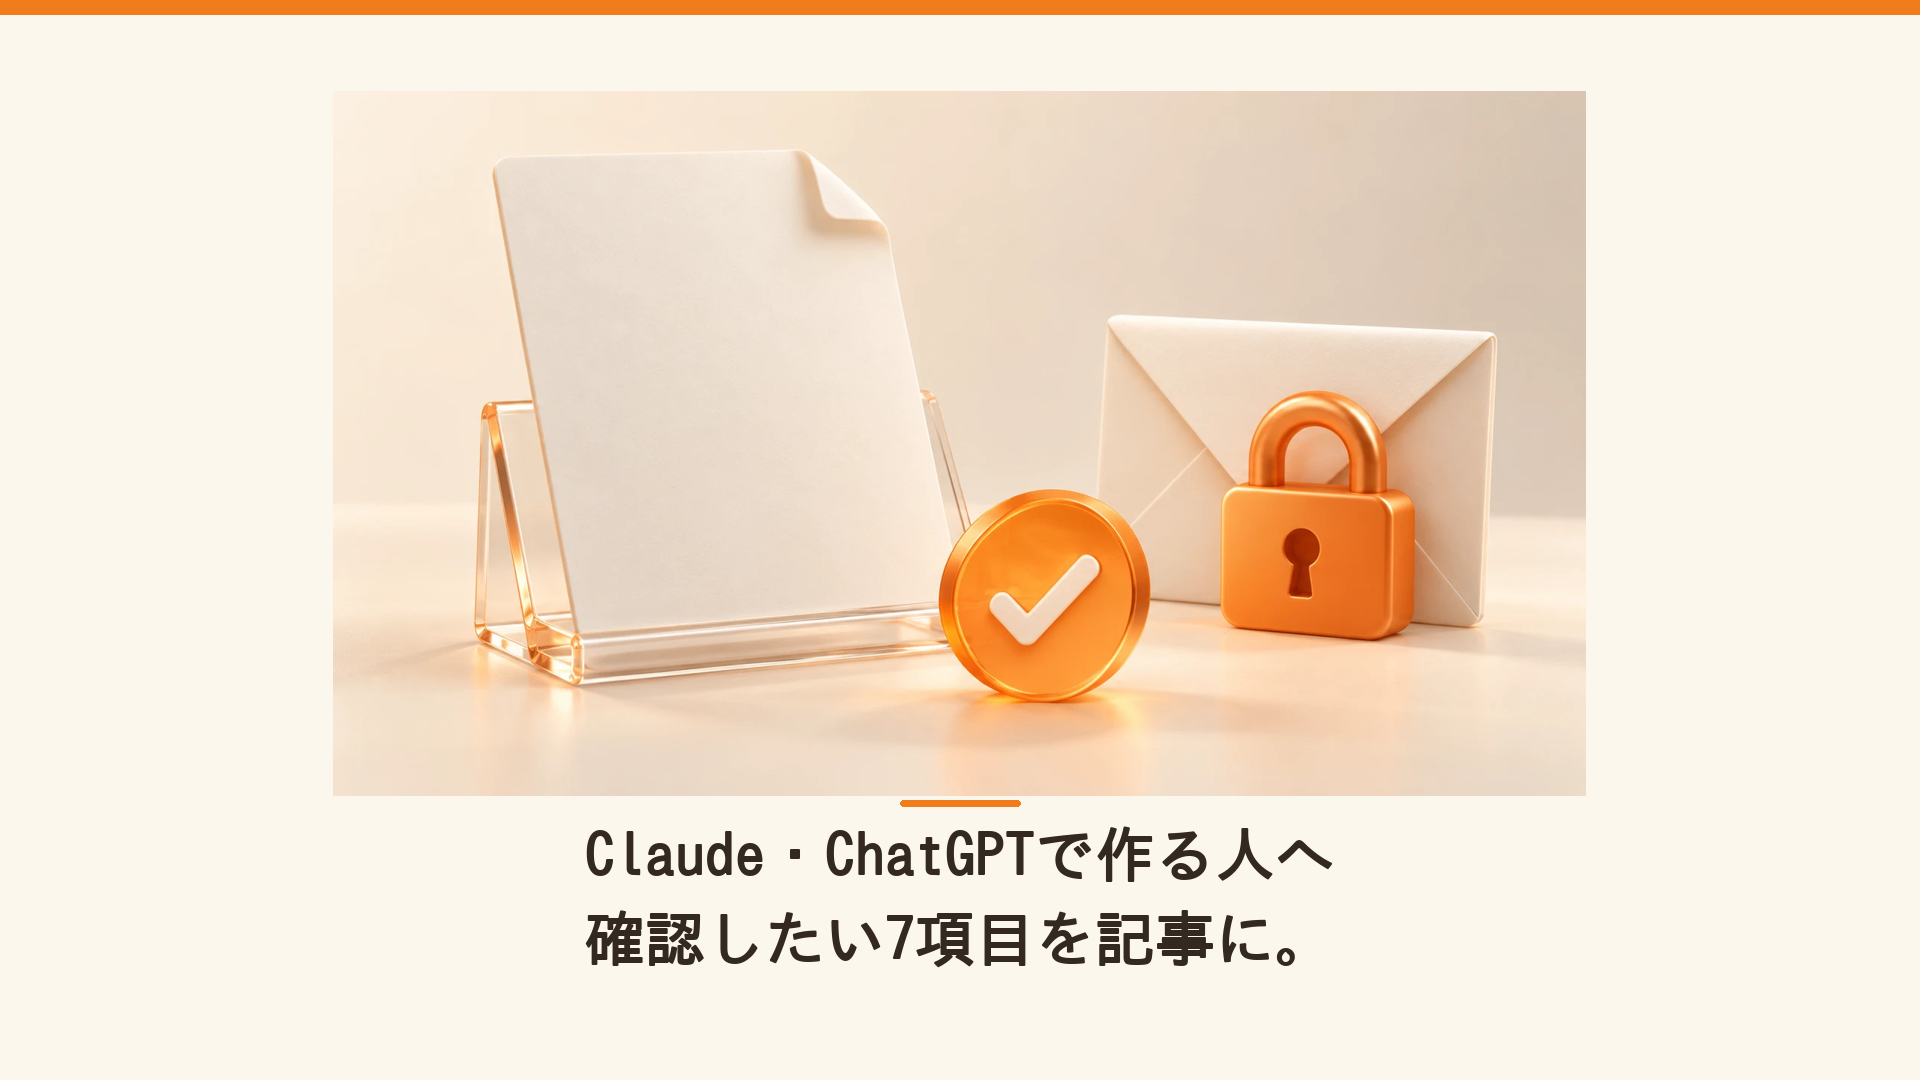
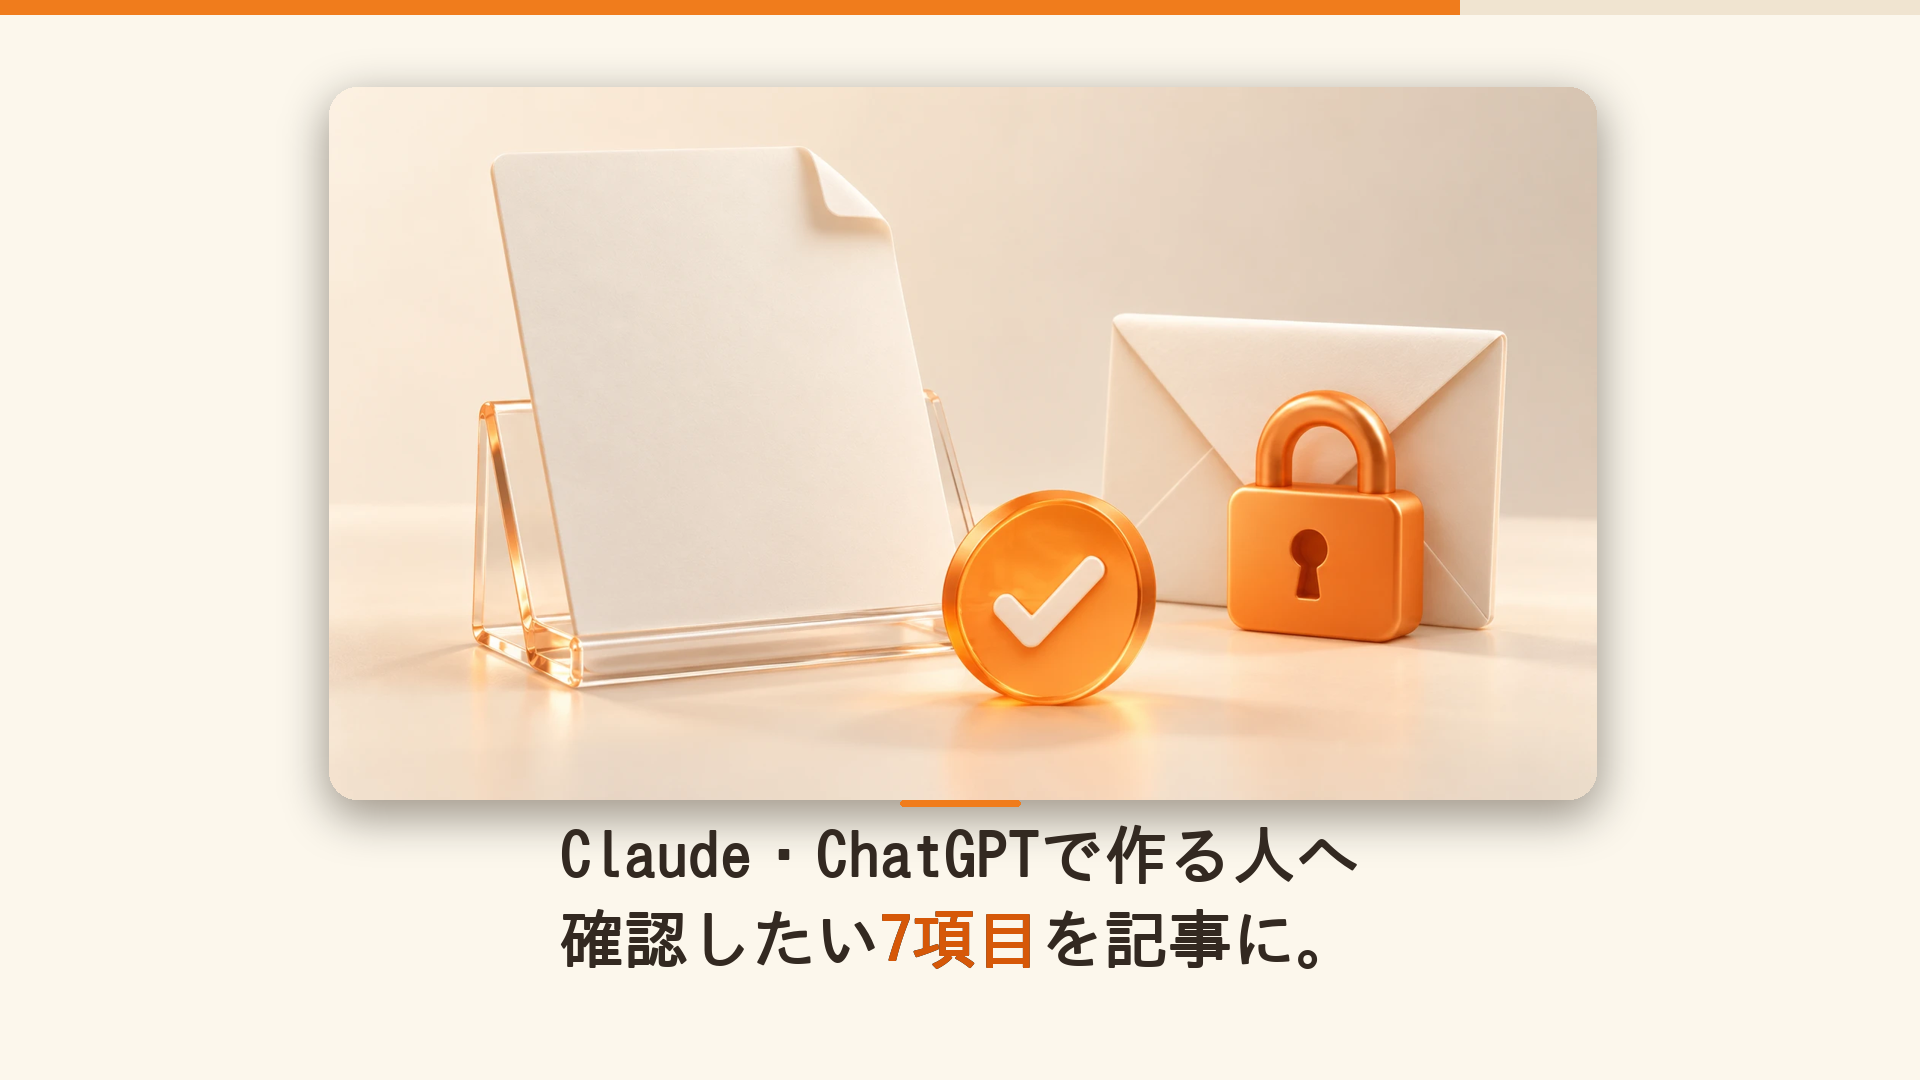
feat: 動画の見た目を改善(冒頭アイコンを拡大、キーワード強調、角丸+影、進行バー)
Claude-Session: https://claude.ai/code/session_01BTRd6nyQ5FvojqfiBRcFFR

diff --git a/video/src/render.py b/video/src/render.py
@@ -21,7 +21,7 @@ FONT_PATHS = [  # 日本語フォント(先頭から探索)
     "/usr/share/fonts/opentype/ipafont-gothic/ipag.ttf",
     "/usr/share/fonts/truetype/fonts-japanese-gothic.ttf",
 ]
-SUB_PX = 60                              # 字幕サイズ(52〜64px)
+SUB_PX = 64                              # 字幕サイズ(52〜64px)
 LINE_H = 84
 SUB_TOP = H - MY - LINE_H * 2            # 字幕ゾーン上端 = 812
 IMG_BOX = (MX, MY, W - MX, SUB_TOP - 24) # 画像表示領域 (120,100)-(1800,788)
@@ -37,6 +37,10 @@ SCENES = [
     (23, 29, ["body1", "body2", "body3"], ["Claude・ChatGPTで作る人へ", "確認したい7項目を記事に。"]),
     (29, 35, ["banner"], ["実務への導入で迷っている方は", "COACH AIへご相談ください"]),
 ]
+HIGHLIGHT = [  # シーン別の強調語(字幕に含まれる部分文字列)
+    ["仕事で使って大丈夫"], ["社内データ"], ["誰が見られる", "どこまで操作"], ["止め方"], ["7項目"], ["COACH AI"],
+]
+ACCENT = (214, 88, 8)  # アイボリー上で読めるオレンジ
 FILES = {"cover": "cover.png", "body1": "body1.png", "body2": "body2.png",
          "body3": "body3.png", "banner": "coach_ai_banner.png"}
 PH_SIZE = {"cover": (2000, 800), "body1": (1600, 900), "body2": (1600, 900),
@@ -107,7 +111,7 @@ def alert_bg():
     return _ALERT[0]
 
 
-def draw_subtitle(canvas, lines, alpha, f, color=INK):
+def draw_subtitle(canvas, lines, alpha, f, color=INK, hl=(), accent=ACCENT):
     if alpha <= 0:
         return
     layer = Image.new("RGBA", canvas.size, (0, 0, 0, 0))
@@ -118,8 +122,13 @@ def draw_subtitle(canvas, lines, alpha, f, color=INK):
         tw = d.textlength(ln, font=f)
         assert tw <= W - 2 * MX - 24, f"字幕が長すぎます: {ln} ({tw}px)"
         cy = y0 + i * LINE_H + LINE_H // 2
-        d.text((W // 2, cy), ln, font=f, fill=color + (a,), anchor="mm", stroke_width=1, stroke_fill=color + (a,))
-    # オレンジのアクセントライン(字幕ゾーン上)
+        left = W / 2 - tw / 2
+        d.text((left, cy), ln, font=f, fill=color + (a,), anchor="lm", stroke_width=1, stroke_fill=color + (a,))
+        for h in hl:  # 強調語を上書き
+            k = ln.find(h)
+            if k >= 0:
+                x = left + d.textlength(ln[:k], font=f)
+                d.text((x, cy), h, font=f, fill=accent + (a,), anchor="lm", stroke_width=1, stroke_fill=accent + (a,))
     d.rounded_rectangle([W // 2 - 60, SUB_TOP - 12, W // 2 + 60, SUB_TOP - 6], 3, fill=ORANGE + (a,))
     canvas.alpha_composite(layer)
 
@@ -139,9 +148,9 @@ def frame(n, imgs, f):
         bgl = alert_bg().copy()
         bgl.putalpha(int(255 * fo))
         canvas.alpha_composite(bgl)
-    else:
-        ImageDraw.Draw(canvas).rectangle([0, 0, W, 14], fill=ORANGE)
-    zoom = 1.0 + 0.04 * (local / dur)  # 軽いズーム 100%→104%
+
+    zoom = 1.0 + 0.06 * (local / dur)  # 軽いズーム 100%→106%
+    drift = round((local / dur - 0.5) * 28 * (1 if si % 2 == 0 else -1))  # わずかな横移動(px)
 
     if len(keys) == 1:
         weights = [(keys[0], 1.0)]
@@ -162,7 +171,12 @@ def frame(n, imgs, f):
     for k, a in weights:
         if a <= 0:
             continue
-        im = fit(imgs[k], zoom * (0.62 if opening else 1.0)).convert("RGBA")
+        src = imgs[k]
+        if opening and k == "cover":  # 余白の多い表紙を、5:2のまま中央の鍵アイコン周辺に寄せる
+            cw = 880
+            cx0, cy0 = src.width // 2 - cw // 2, 380 - int(cw * 0.4) // 2
+            src = src.crop((cx0, cy0, cx0 + cw, cy0 + int(cw * 0.4)))
+        im = fit(src, zoom * (0.74 if opening else 1.0)).convert("RGBA")
         if opening:  # 小さめのカード+背後の赤橙の光で、暗い背景に浮かせる
             gl = Image.new("RGBA", (W, H), (0, 0, 0, 0))
             cx, cy = (bx0 + bx1) // 2, (by0 + by1) // 2 + 40
@@ -170,9 +184,21 @@ def frame(n, imgs, f):
                                                   cx + im.width // 2 + 30, cy + im.height // 2 + 30], 30,
                                                  fill=RED_GLOW + (int(150 * a * alpha),))
             canvas.alpha_composite(gl.filter(ImageFilter.GaussianBlur(40)))
-        im.putalpha(int(255 * a * alpha))
-        # 影は付けず、中央配置
-        canvas.alpha_composite(im, ((bx0 + bx1 - im.width) // 2, (by0 + by1 - im.height) // 2 + (40 if opening else 0)))
+        rm = Image.new("L", im.size, 0)
+        ImageDraw.Draw(rm).rounded_rectangle([0, 0, im.width - 1, im.height - 1], 28, fill=int(255 * a * alpha))
+        im.putalpha(rm)
+        px = (bx0 + bx1 - im.width) // 2 + drift
+        py = (by0 + by1 - im.height) // 2 + (40 if opening else 0)
+        sh = Image.new("RGBA", (W, H), (0, 0, 0, 0))
+        ImageDraw.Draw(sh).rounded_rectangle([px, py + 14, px + im.width, py + im.height + 14], 28,
+                                             fill=(60, 40, 20, int((120 if not opening else 0) * a * alpha)))
+        canvas.alpha_composite(sh.filter(ImageFilter.GaussianBlur(22)))
+        canvas.alpha_composite(im, (px, py))
+    # 進行バー(冒頭を除く)
+    if not opening:
+        pd = ImageDraw.Draw(canvas)
+        pd.rectangle([0, 0, W, 14], fill=(240, 228, 208))
+        pd.rectangle([0, 0, int(W * t / SEC), 14], fill=ORANGE)
     if opening:
         kl = Image.new("RGBA", (W, H), (0, 0, 0, 0))
         kd = ImageDraw.Draw(kl)
@@ -184,7 +210,7 @@ def frame(n, imgs, f):
                 fill=ORANGE + (ka,), anchor="lm")
         canvas.alpha_composite(kl)
     col = tuple(round(INK[i] + (IVORY[i] - INK[i]) * fo) for i in range(3)) if opening else INK
-    draw_subtitle(canvas, lines, alpha, f, col)
+    draw_subtitle(canvas, lines, alpha, f, col, HIGHLIGHT[si], ORANGE if opening else ACCENT)
     return canvas.convert("RGB")
 
 

diff --git a/video/output/VERIFY_REPORT.md b/video/output/VERIFY_REPORT.md
@@ -10,6 +10,6 @@
 | 尺(秒) | 35.000000 | 35.0 |
 | 音声トラック数 | 0 | 0 (無音) |
 | faststart(moovがmdatより前) | True | True |
-| 容量(MB) | 3.17 | <= 50 |
+| 容量(MB) | 4.12 | <= 50 |
 
 **判定: 仕様どおり**
